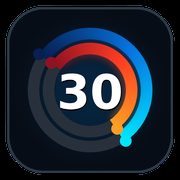
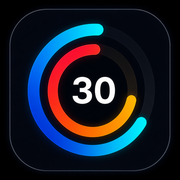
Add files via upload

diff --git a/index.html b/index.html
@@ -1588,7 +1588,7 @@
                 <h3 id="settings-info-title" class="settings-group-title">Informazioni</h3>
                 <div class="app-info-card">
                     <div class="app-info-line"><span>App</span><strong>Timer</strong></div>
-                    <div class="app-info-line"><span>Versione</span><strong id="app-version-label">1.7.0</strong></div>
+                    <div class="app-info-line"><span>Versione</span><strong id="app-version-label">1.7.1</strong></div>
                     <div class="app-info-line"><span>Stato</span><span id="network-status" class="network-status"><span class="network-dot"></span><strong id="network-status-label">Online</strong></span></div>
                     <div class="app-info-line"><span>Copyright</span><strong>© 2026 MC</strong></div>
                 </div>
@@ -1679,7 +1679,7 @@
         document.addEventListener('DOMContentLoaded', function() {
             "use strict";
 
-            var APP_VERSION = '1.7.0';
+            var APP_VERSION = '1.7.1';
             var PREFERENCES_KEY = 'kp_timer_preferences_v1';
             var DEFAULT_APP_PREFERENCES = {
                 soundEnabled: true,

diff --git a/service-worker.js b/service-worker.js
@@ -1,4 +1,4 @@
-const CACHE_NAME = 'timer-v13-clean-ui-2026-07-29';
+const CACHE_NAME = 'timer-v14-final-classic-icon-2026-07-29';
 const CORE_ASSETS = [
   './',
   './index.html',
@@ -8,6 +8,7 @@ const CORE_ASSETS = [
   './icons/icon-512.png',
   './icons/icon-maskable-192.png',
   './icons/icon-maskable-512.png',
+  './icons/timer-icon-classic-master.png',
   './icons/apple-touch-icon.png',
   './Logo-Blu.svg'
 ];

diff --git a/README_DEPLOY.md b/README_DEPLOY.md
@@ -74,3 +74,8 @@ Versione 1.7.0: header separato menu/impostazioni, layout render, fix controlli.
 - pannello Impostazioni spostato fuori dal drawer sinistro, così compare correttamente sopra l’overlay;
 - gestione visibilità e z-index resa esplicita;
 - icona Lavoro ridisegnata come manubrio vettoriale più leggibile.
+
+
+## Aggiornamento 1.7.1
+
+Sostituita e uniformata l'icona Standard/PWA con la versione Classic definitiva: anello esterno blu-ciano, anello interno rosso-arancio e numero 30 bianco. La stessa immagine viene usata nella Home screen, nel manifest e nell'interfaccia del tema Standard.
